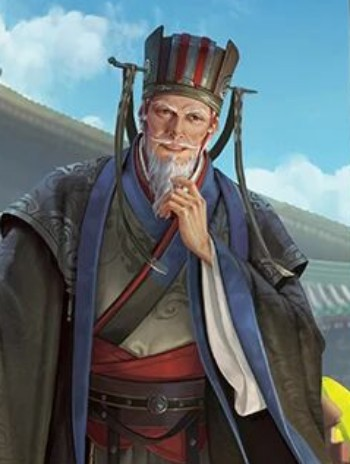
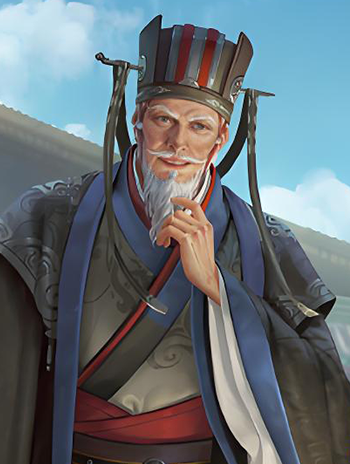
优化了武将原画

diff --git a/character/spr2/skills/tafeng.js b/character/spr2/skills/tafeng.js
@@ -14,10 +14,7 @@ export default new SkillData("spr_tafeng|踏锋", {
 			player: "phaseZhunbei",
 		},
 		filter(event, player, name, target) {
-			return player.countCards("he", card => {
-				const cqby = get.autoViewAs({ name: "chuqibuyi" }, [card]);
-				return player.hasUseTarget(cqby);
-			}) > 0;
+			return player.hp > 0;
 		},
 		check(event, player) {
 			return player.hp > 1 &&
@@ -26,6 +23,12 @@ export default new SkillData("spr_tafeng|踏锋", {
 		async content(event, trigger, player) {
 			await player.loseHp();
 			await player.draw();
+
+			if (player.countCards("he", card => {
+				const cqby = get.autoViewAs({ name: "chuqibuyi" }, [card]);
+				return player.hasUseTarget(cqby);
+			}) == 0) return;
+
 			const result = await player.chooseCardTarget({
 				forced: true,
 				prompt: "将一张牌当【出其不意】使用",
